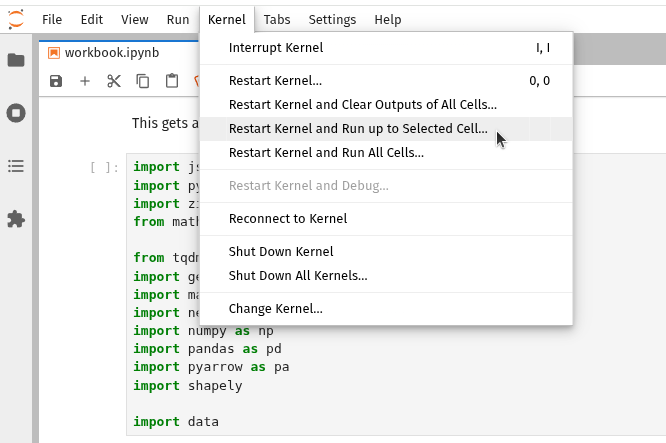
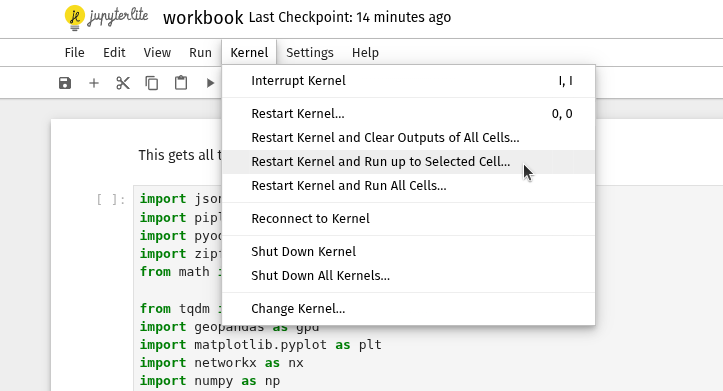
new README

Changed region(s): [[0.0, 0.0, 1.0, 1.0], [0.7207, 0.4297, 0.7508, 0.4604]]

diff --git a/README.md b/README.md
@@ -1,3 +1,13 @@
 # SciPy 2025 Teen Track
 
-New project this year. Watch this space!
+<img src="https://raw.githubusercontent.com/jpivarski-talks/2025-07-12-scipy-teen-track/refs/heads/main/site/files/img/scipy-logo.png" width="200" align="right">
+
+This repository contains the materials presented on July 12, 2025 at the SciPy Teen Track.
+
+To follow the lecture and do the exercises, launch JupyterLite in your browser:
+
+<p align="center">
+  <a href="https://jpivarski-talks.github.io/2025-07-12-scipy-teen-track/notebooks/index.html?path=workbook.ipynb">
+    <img src="https://jupyterlite.readthedocs.io/en/latest/_static/badge.svg" alt="Launch JupyterLite" height="40">
+  </a>
+</p>
